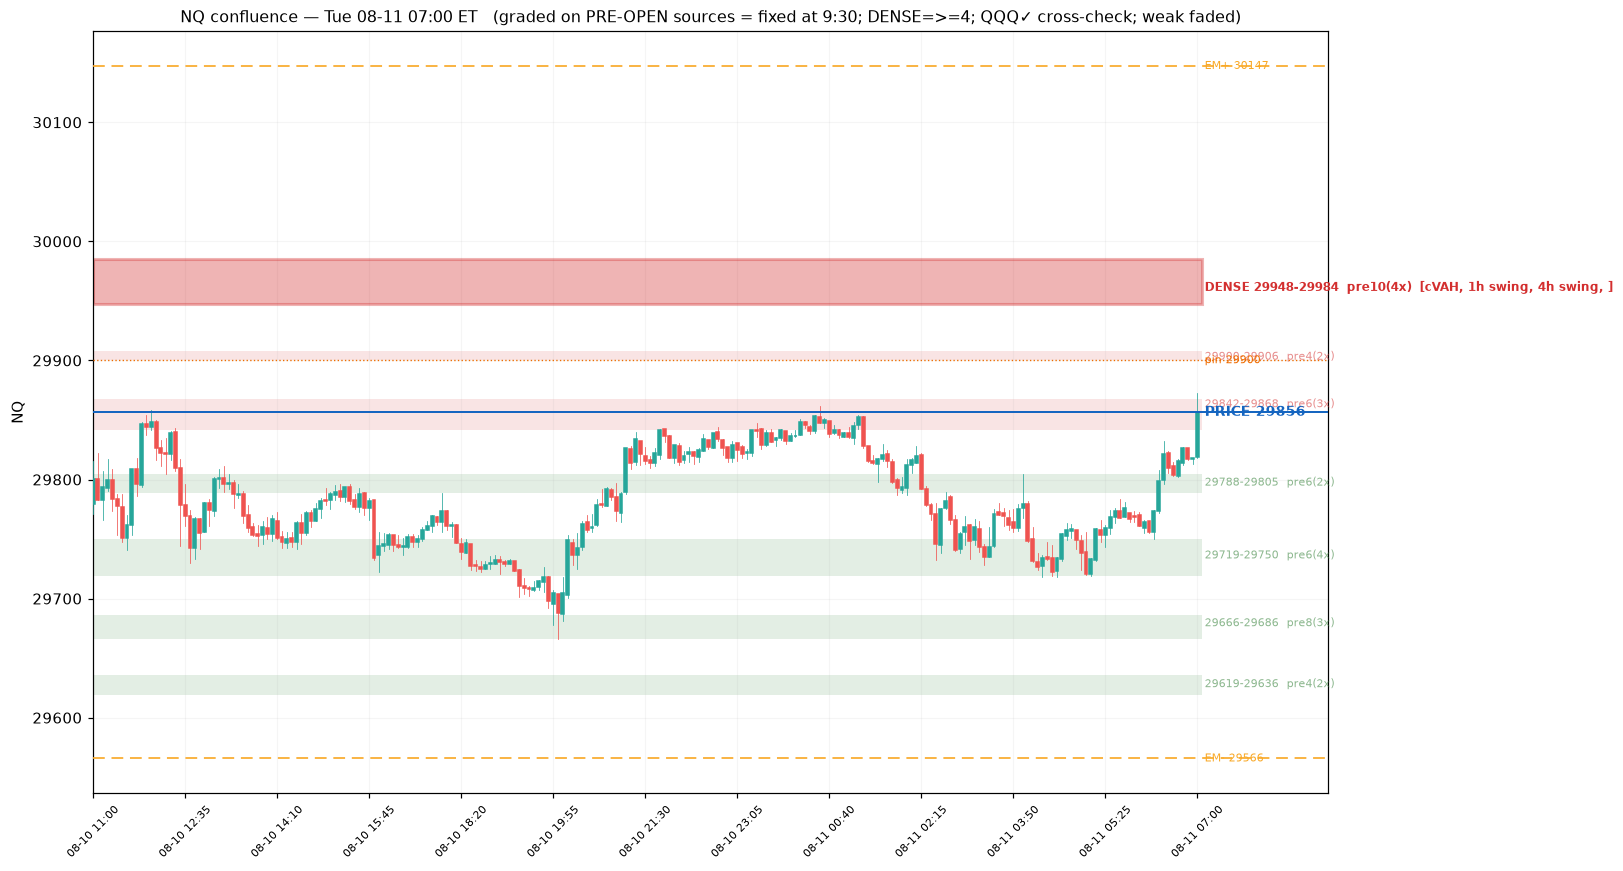
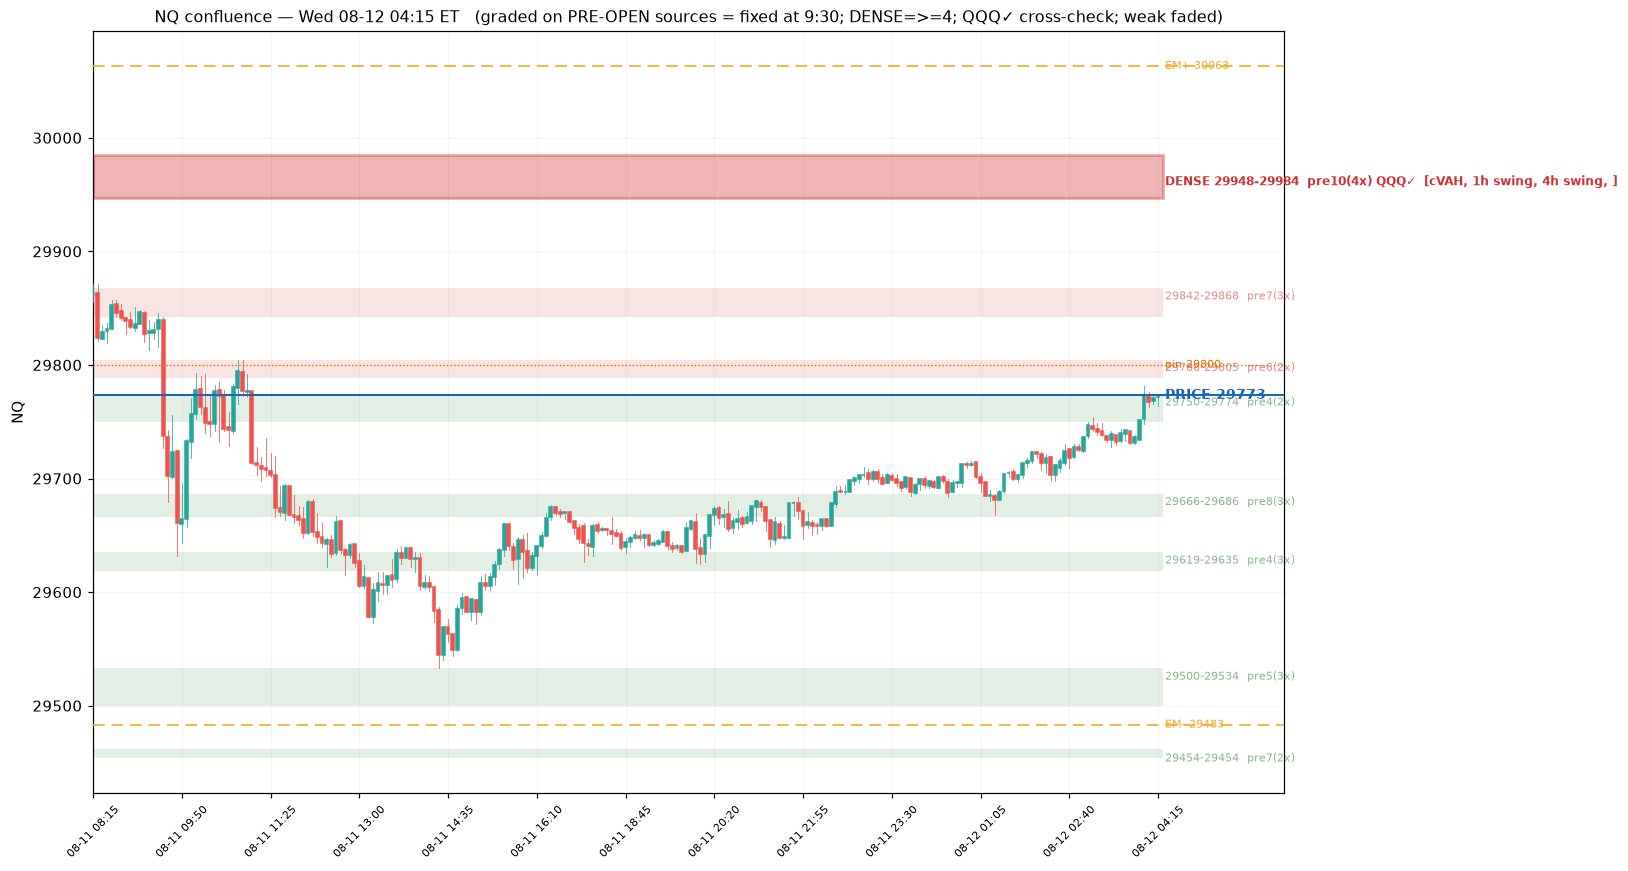
Add refresh_rerun: bundle NQ price pull + AV levels refresh before rerun
scripts/refresh_rerun.py takes a fresh IBKR NQ 5-min raw + a fresh Alpha
Vantage QQQ option chain and, in one step: rewrites the NQ price feed
(nq_5min_eth_live.json), writes AV-sourced gamma_levels.json (QQQ + NQ scaled
by the live NQ/QQQ ratio via av_gex --write), then runs scripts.confluence.
This closes the two staleness gaps that made the A+ note unreliable: the
price feed and the gamma levels are now both current at each rerun.

Demonstrated: with fresh NQ (29773, pre-market) vs the stale 29856, today's
read correctly flips from 'fade the edges' to COILED (price on the flip 29774).

Claude-Session: https://claude.ai/code/session_01MtU3Ssqkeruamy1CfYgjMq

diff --git a/scripts/refresh_rerun.py b/scripts/refresh_rerun.py
@@ -1,0 +1,84 @@
+#!/usr/bin/env python3
+"""Morning refresh + rerun, in one deterministic step.
+
+Bundles the two things that must be current for the A+ read to be trustworthy:
+  1. NQ price feed  (data/nq_5min_eth_live.json)  <- fresh IBKR NQ 5-min raw
+  2. AV gamma levels (data/gamma_levels.json)      <- av_gex --write from a
+     fresh Alpha Vantage QQQ option chain, NQ scaled by the live NQ/QQQ ratio
+...then runs scripts.confluence so the A+ SETUP note reflects both.
+
+The two raw inputs come from MCP fetches (Alpha Vantage HISTORICAL_OPTIONS and
+IBKR get_price_history) which live outside this sandbox's Python — pass their
+saved file paths in. Everything after that is scripted here.
+
+Usage:
+  python3 scripts/refresh_rerun.py --nq-raw <ibkr_nq.json> --av-chain <av_qqq.txt> \
+      [--ratio auto] [--no-run]
+"""
+import argparse, json, re, subprocess, sys
+from pathlib import Path
+
+ROOT = Path(__file__).resolve().parent.parent
+PY = sys.executable
+FEED = ROOT / "data" / "nq_5min_eth_live.json"
+
+
+def load_raw(path):
+    """IBKR get_price_history JSON (or {'result': json})."""
+    raw = Path(path).read_text()
+    d = json.loads(raw)
+    if isinstance(d, dict) and "result" in d and "time" not in d:
+        d = json.loads(d["result"])
+    return d
+
+
+def write_price_feed(nq_raw):
+    d = load_raw(nq_raw)
+    keys = ("time", "open", "high", "low", "close", "volume")
+    feed = {k: d[k] for k in keys}
+    FEED.write_text(json.dumps(feed))
+    return feed["time"][-1], feed["close"][-1], len(feed["time"])
+
+
+def qqq_spot(av_chain):
+    out = subprocess.run([PY, str(ROOT / "scripts/av_gex.py"), av_chain,
+                          "--sym", "QQQ", "--mult", "100"],
+                         capture_output=True, text=True)
+    m = re.search(r"spot ([\d.]+)", out.stdout)
+    if not m:
+        raise SystemExit(f"could not read QQQ spot from av_gex:\n{out.stdout}\n{out.stderr}")
+    return float(m.group(1))
+
+
+def write_levels(av_chain, ratio):
+    subprocess.run([PY, str(ROOT / "scripts/av_gex.py"), av_chain,
+                    "--sym", "QQQ", "--mult", "100",
+                    "--also-nq", str(ratio), "--write"], check=True)
+
+
+def main():
+    ap = argparse.ArgumentParser()
+    ap.add_argument("--nq-raw", required=True, help="IBKR NQ 5-min price-history JSON file")
+    ap.add_argument("--av-chain", required=True, help="Alpha Vantage QQQ HISTORICAL_OPTIONS file")
+    ap.add_argument("--ratio", default="auto", help="NQ/QQQ scale ratio, or 'auto' (default)")
+    ap.add_argument("--no-run", action="store_true", help="refresh files but skip the confluence rerun")
+    a = ap.parse_args()
+
+    last_t, nq_last, n = write_price_feed(a.nq_raw)
+    print(f"[price] nq_5min_eth_live.json <- {n} bars, latest {last_t} close {nq_last}")
+
+    spot = qqq_spot(a.av_chain)
+    ratio = round(nq_last / spot, 3) if a.ratio == "auto" else float(a.ratio)
+    print(f"[ratio] QQQ spot {spot} | NQ {nq_last} -> ratio {ratio}"
+          + ("  (auto)" if a.ratio == "auto" else ""))
+
+    write_levels(a.av_chain, ratio)
+    print("[levels] gamma_levels.json <- Alpha Vantage (QQQ + NQ scaled)")
+
+    if not a.no_run:
+        print("[rerun] scripts.confluence\n" + "-" * 60)
+        subprocess.run([PY, "-m", "scripts.confluence"], cwd=str(ROOT))
+
+
+if __name__ == "__main__":
+    main()
